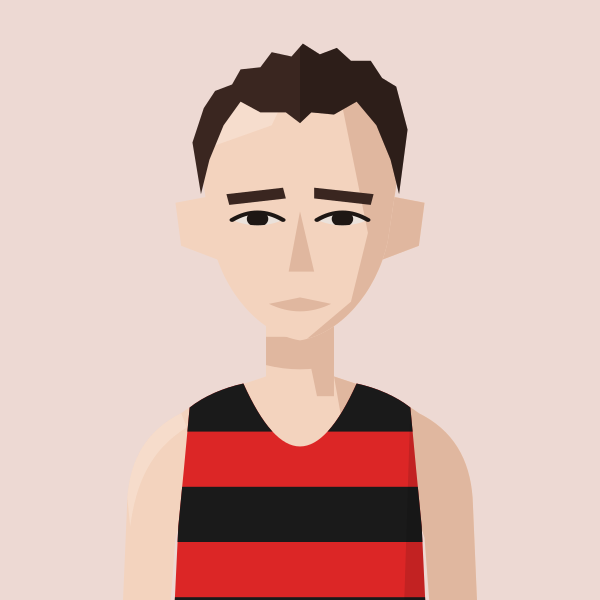
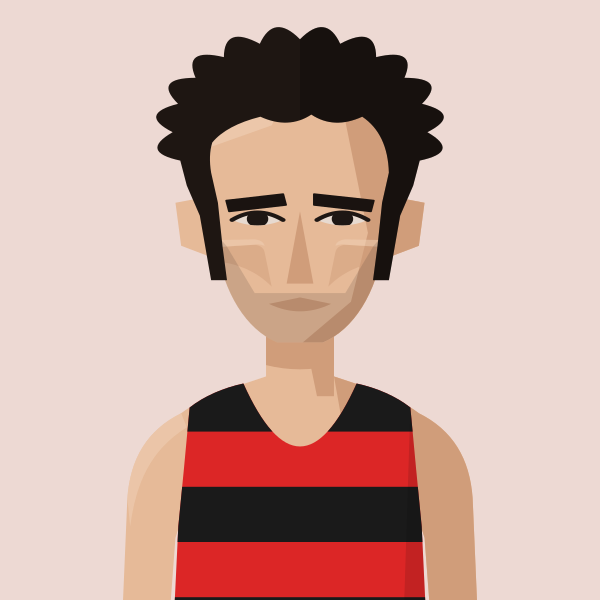
Jon Solly: redrawn with big black curls, sideburns, faint stubble
Claude-Session: https://claude.ai/code/session_01MgmDWhFqnSSnP4iBLKXUZC

Changed region(s): [[0.24, 0.03, 0.75, 0.75], [0.66, 0.69, 0.81, 1.0], [0.18, 0.69, 0.33, 1.0]]

diff --git a/files/index.html b/files/index.html
@@ -885,7 +885,7 @@ const portraitFile=(name,club)=>{const k=normalizeNameForCompare(name||'').repla
 const portraitClubOf=(name,clubs)=>{for(const c of clubs||[]){if(c&&portraitFile(name,c))return c;}return null;}; /* first of these clubs we have a portrait for */
 // Athlete header figure: superstar portrait if we have one, else a grey runner in the club vest, else the plain vest icon
 // Changes whenever any portrait changes (set by tools/build_og.py), so browsers fetch fresh images instead of old cached ones
-const PORTRAIT_V='1f01a294';const PORTRAIT_WOMEN='abbey-brooke,abbie-bulbulian,adele-prince,aimee-hargreaves,aisling-ahern,alex-brown,alex-gandee,alex-marginean,alex-miller,alexa-parker,alexandra-barbour,alice-braham,alice-bridger-morales,alice-crane,alice-martin,alice-reed,alice-smith,alison-purnell,alison-thomson,amelia-pettitt,amy-clements,andrea-barber,anika-schwarze-chintapatla,anna-garnier,anna-garnier-hw,anna-sharp,annabel-hobday,annabelle-hadlow,anne-hegvold,annmarie-seymour,ava-mcandie,becky-briggs,bethan-goddard,bethanie-murray,bethany-brown,betsy-griffiths,billie-mcclosky,camilla-barden,caoimhe-nic-fhogartaigh,carolyne-baxter,catherine-bryson,catherine-eastham,catherine-kandie,cathy-ansell,charlotte-griffiths,chloe-beckett,chloe-tighe,chrissie-wellington,claire-grima,clara-pettit,clare-elms,clare-pauzers,dillan-quinn,dorchie-cockerell,eilidh-hide,elinor-skinner,eliza-grant,elizabeth-apsley,elizabeth-stavreski,ella-fennelly,ella-king-powrie,ella-may-hards,ella-newton,ellen-weir,ellie-brown,ellie-freeden,eloise-bull,emilie-arnoux,emily-barrett,emily-bradley,emily-lowery,emily-robbins,emma-bond,emma-gordon,emma-howsham,emma-lord,emma-rowland,estle-viljoen,evie-warren,felicity-cole,felicity-harrison,felicity-hayward,fi-maddocks,fiona-de-mauny,florence-wiggins,gabby-collison,gabriel-reynolds,gemma-newport,genevieve-blanch,georgia-curry,georgie-bruinvels,georgie-fenn,georgie-furze,georgie-grgec,gina-galbraith,grace-leyland,grace-richardson,hannah-edwards,hannah-english,heather-statham,heather-statham-cc,helena-corbin,helena-keenan,holly-nixon,holly-pan,imogen-mackie,imogen-wolsey,iona-cousland,isabel-bradley,isabel-brinsden,isabel-hodder,isabelle-pickett,jennifer-nandi,jennifer-smith,jess-reed,jess-saunders,jess-winfield,jessica-davies,jessica-lowe,jodie-favell,jon-hobbs,josephine-rhodes,julia-bleasdale,julia-wedmore,juliet-hodder,jurgita-levertaviciute,justine-lynch,karen-fenner,karen-xiang,karina-box,kate-axford,kate-williams,kathy-sharpe,katie-ellen-french,katie-good,katie-snowden,katy-hedgethorne,kitty-shepherd-cross,kristina-popadich,lara-bromilow,lara-mangan,laura-goodson,laura-miles,lauren-major,lea-adamson,lily-newton,lisa-bailey,lisa-thomas,lisa-thomas-hw,lizzie-goldie-scot,louise-cooper,lucy-jones,lucy-macalister,lucy-peters,lydia-blackmore,lydia-gallyer-barnett,maddie-mastrolonardo,maddy-whitman,maeve-kenny,margaret-coogan,martina-conner,mary-james,mary-setyabule,matilde-lomba,megan-gildea,mel-wilkins,mhairi-hall,mimi-corden-lloyd,molly-oconnor,molly-smith,monika-gajek,naomi-lenane,natalie-beadle,natalie-seymour,natasha-lodge,niamh-thompson,nicky-hayes,nicola-cartlidge,nicola-douglas,nikki-haines,nikki-sturzaker,olivia-papaioannou,olivia-stillman,orna-mcginley,pamela-mchutchon,patricia-walker,patrizia-gnoato,penny-oliver,rachel-brown,rebecca-barrow,rebekah-edgar,ruby-carter,ruby-whyte-wilding,ruby-woolfe,sally-urquhart,sally-young,sally-young-slh,sam-whiting,samantha-munday,sarah-astin,sarah-dewhirst,sarah-grover,sarah-hanley,sarah-holt,sarah-murphy,sarah-palmer,sarah-palmer-ran,sarah-riceman,sarah-young,saron-haileselase,serena-carter,sophie-cowper,sophie-harris,sophie-hicks,sophie-tooley,stacey-ward,steph-hewitt,steph-mccall,steph-mccall-cc,steph-mccall-slh,steph-mitchell,suzanne-swaine,suze-spalding,suzie-harvey,suzy-whatmough,teresa-murphy,tilly-heaton,tilly-heaton-bel,tish-jones,vic-cartwright,vicky-clarke,victoria-barthelmess,victoria-buck,vikki-filsell,zoe-doyle,zoe-macdonald,zuzana-nemeckova';const PORTRAIT_MEN='aaron-wilson,abdulla-elsadig,adam-leane,adrian-major,adrien-royer,alan-black,alan-mead,alex-brecker,alex-bruce-littlewood,alex-gutteridge,alex-harris,alex-howard,alex-janiaud,alex-lee,alex-lennon,alex-mills,alex-milne,alex-morales,alex-robinson,alex-yee,alexander-marks,amittai-ben-israel,andrew-cumine,andrew-green,andrew-penney,andrew-perfect,andrew-simms,andrew-warburton,andrius-jaksevicius,andy-coley-maud,andy-coley-maud-cc,andy-fyfe,andy-north,andy-paton,andy-weir,angus-butler,angus-lamb,anisse-ismaili,arlo-ludewick,arne-dumez,arthur-peel,ashley-goncalves,barnaby-day,barry-collins,barry-sawyer,ben-clarke,ben-coughlan,ben-harding,ben-hurley,ben-ireland,ben-millar,ben-paviour,ben-pearce,ben-racle,ben-revill,ben-reynolds,ben-scott,ben-toomer,benedict-whitby,benjamin-hilson,bernie-ford,bill-kerr,bill-weller,bill-weller-wal,bob-harrison,bob-holt,bob-lunnon,bob-rayman,bob-smith,bradley-courtney-pinn,brandon-dewar,brian-gorman,brian-wilder,caleb-hathaway,callum-stewart,cameron-dockerill,cameron-reilly,carl-delaney,charles-herrington,charlie-dabbs,charlie-dickinson,charlie-eastaugh,charlie-manning,charlie-pickett,charlie-rogers,charlie-sandison,charlie-walker,charlie-wyllie,che-compton,chris-busaileh,chris-busaileh-hhh,chris-greenwood,chris-keavey,chris-moss,chris-steer,chris-threadgold,chris-warren,christian-lee,christopher-parker,clive-gilby,clive-shippen,colin-high,colin-pearson,conall-mcnally,conall-whelan,craig-ruddy,dame-dibaba,dan-cliffe,dan-pettitt,daniel-shaw,daniel-wolff,darren-mead,dave-beard,dave-beaver,dave-clarke,dave-glassborow,dave-holt,dave-taylor,david-anderson,david-bowers,david-grima,david-north,david-ogden,david-symons,david-walsh,david-williams,deron-fagan,dick-piotrowski,dimos-evangelidis,dom-nolan,dominic-kiralyfi,don-anderson,don-faircloth,don-maclean,doug-maughan,duncan-rimmer,dylan-evans,dylan-mitchard,ed-brewer,ed-catmur,ed-gibson,ed-mallett,ed-prickett,eddie-herridge,eddie-jodrell,eddie-rolls,edward-chuck,eoin-brady,eoin-molloy,ethan-mccolgan,falilou-kebe,findlay-dyer,finn-johnson,fintan-pearce,frank-tickner,frank-ward,fred-paget,fred-slemeck,freddie-hessian,garret-lee,gary-ribbons,gary-ribbons-ee,gary-staines,gary-staines-bel,gavin-eccles,geoff-biscoe,geoff-jerwood,geoff-north,george-cotton,george-gathercole,george-jackson,george-loxton,george-mallett,george-ogden,gerry-adams,gerry-north,glen-keegan,gordon-pearce,graham-macky,grenville-tuck,harrison-hayman,harry-guttridge,hector-revill,henry-hart,henry-silverstein,hugo-hewitt,huw-lobb,ian-acreman,ian-crowe-wright,ian-ellwood,ian-harkness,indy-barnes,isaac-lutaya,isaac-parker,jack-brotchie,jack-dickson,jack-dormer,jack-hampshire,jack-harrison,jack-hobden,jack-kavanagh,jack-millar,jack-ramm,jack-woods,jacob-brockmann,jake-simmonds,james-bartram,james-blackwood,james-bowler,james-estall,james-ewing,james-fox,james-hancock,james-harvey,james-hoad,james-kelly,james-mcmullan,james-murray,james-nutt,james-preston,james-roberts,james-stockings,james-ward,james-wootton,jamie-crowe,jamie-parkinson,jared-martin,jean-paul-wright,jeff-cunningham,jeremy-dempsey,jermaine-mays,jerry-watson,jim-allchin,jim-rimmer,joe-english,joe-hartley,john-baker,john-bicourt,john-bromley,john-davies,john-dear,john-foss,john-foxall,john-gilbert,john-gladwin,john-hutchins,john-kendall,john-kimaiyo,john-lee,john-lethbridge,john-mather,john-moore,john-roberts,john-sanderson,john-stow,john-sullivan,john-thresher,jon-pepper,jon-pepper-slh,jon-phillips,jon-solly,jonathan-cocker,jonathan-collier,jonathan-cornish,jonathan-ratcliffe,jonathan-tipper,jonny-neville,jonny-scott,jordan-weaver,josh-mitchell,josh-snow,josh-trigwell,jules-gevers,junior-galley,justin-chaston,justin-reid,kassa-tadesse,keith-newton,ken-penney,ken-penney-cro,kevin-nash,kevin-quinn,kevin-sturman,kieran-barnes,kieran-white,knut-hegvold,knut-hegvold-bel,larry-ryan,lawrence-avery,lee-lintern,les-presland,les-presland-sur,lewis-lloyd,liam-burthem,lionel-mann,lloyd-kempson,luke-caldwell,mack-downie,malachi-byansi,marcello-bizio,marcelo-fortes,marco-mazzotta,mark-anderson,mark-miles,mark-sinclair,mark-tennyson,mark-waller,martin-dent,martin-duff,martin-lake,martin-lewington,martin-shore,mathew-speed,matt-chaston,matt-jones,matt-wood,matt-yates,matthew-edgar,matthew-houchell,matthew-thomas,matthew-varley,max-bloor,max-heyden,max-milarvie,max-nicholls,michael-baker,michael-mccarthy,mick-gowan,mick-woods,mike-beevor,mike-boyle,mike-cummings,mike-farmery,mike-fuller,mike-hayes,mike-kortenray,mike-nouch,mohammed-ismail,monty-hudson,morgan-roberts,nathan-visick,neil-chisholm,neil-phillips,neil-speaight,neil-wilson,nic-lukies,nick-acfield,nick-altmann,nick-bester,nick-bester-hhh,nick-buckle,nick-bundle,nick-goolab,nick-lightfoot,nick-morris,nick-torry,noah-fernandez,norman-stairs,oli-carrington,oliver-carrington,oliver-fox,oliver-reynolds,oliver-young,ollie-foote,ollie-garrod,olly-buck,owen-hind,paddy-roddy,pancho-panchev,paskar-owor,pat-newell,patrick-mcdougall,paul-calver,paul-cheetham,paul-evans,paul-freary,paul-magner,paul-pollock,paul-sanderson,paul-sanderson-wok,pete-carton,pete-gardner,peter-clarke,peter-giles,peter-giles-thh,peter-lighting,phil-carstairs,phil-sanders,phil-sesemann,phil-swinburn,phil-wicks,phil-woodford-smith,raj-paranandi,ralph-street,ranjit-bhatia,ray-foley,reece-edwards,rhys-boorman,rian-mccawley,richard-ashe,richard-giles,richard-henderson,richard-langley,richard-mcdowell,richard-ollington,richard-partridge,richard-sun,richard-ward,rob-armstrong,rob-kelly,rob-tuer,robert-elphick,robert-laing,robert-norville,robert-peacock,robert-sesemann,robin-boon,robin-hudson,roger-alsop,roger-alsop-bel,roger-hackney,ron-clark,ron-linstead,ronan-tanguy,rory-mcmahon,rory-orsborn,ross-braden,ross-christie,rowan-board,rowan-crichton,russell-dessaix-chin,ryan-hickey,ryan-mccallister,sam-bramwell,sam-charlton,sam-gebreselassie,sam-haughian,sam-peters,sam-sommerville,sam-tyas,samuel-dames,samuel-wilcock,sean-cordon,sebastian-anthony,simon-baines,simon-coombes,simon-coppard,simon-fairbrother,simon-holmes,simon-rayner,simon-rayner-hw,simon-wade,simon-wade-hhh,simon-waterhouse,simon-williams,simon-wurr,sonny-nicoll,spencer-barden,stephen-mcleod,stephen-sharp,steve-gardner,steve-jones,steve-smythe,steve-smythe-hhh,stuart-beaney,stuart-major,stuart-major-thh,stuart-mccallum,stuart-paton,terry-booth,thomas-dugre,thomas-gandee,thomas-gardner,thomas-renshaw,tim-alexander,tim-eglen,tim-lawrence,tim-watson,toby-cooke,toby-fletcher,tom-austin,tom-cheetham,tom-conlon,tom-davies,tom-gifford,tom-higgs,tom-jervis,tom-lole,tom-south,tom-thornley,tommy-taylor,tony-binda,tony-fairclough,tony-harran,trevor-hart,valdis-pauzers,valentin-rigori,vic-maughan,wayne-oxborough,will-cockerell,will-lewis,will-marshall,will-scott,will-stockley,william-gardner,yacin-yusuf,zach-nolan';
+const PORTRAIT_V='f8e9c436';const PORTRAIT_WOMEN='abbey-brooke,abbie-bulbulian,adele-prince,aimee-hargreaves,aisling-ahern,alex-brown,alex-gandee,alex-marginean,alex-miller,alexa-parker,alexandra-barbour,alice-braham,alice-bridger-morales,alice-crane,alice-martin,alice-reed,alice-smith,alison-purnell,alison-thomson,amelia-pettitt,amy-clements,andrea-barber,anika-schwarze-chintapatla,anna-garnier,anna-garnier-hw,anna-sharp,annabel-hobday,annabelle-hadlow,anne-hegvold,annmarie-seymour,ava-mcandie,becky-briggs,bethan-goddard,bethanie-murray,bethany-brown,betsy-griffiths,billie-mcclosky,camilla-barden,caoimhe-nic-fhogartaigh,carolyne-baxter,catherine-bryson,catherine-eastham,catherine-kandie,cathy-ansell,charlotte-griffiths,chloe-beckett,chloe-tighe,chrissie-wellington,claire-grima,clara-pettit,clare-elms,clare-pauzers,dillan-quinn,dorchie-cockerell,eilidh-hide,elinor-skinner,eliza-grant,elizabeth-apsley,elizabeth-stavreski,ella-fennelly,ella-king-powrie,ella-may-hards,ella-newton,ellen-weir,ellie-brown,ellie-freeden,eloise-bull,emilie-arnoux,emily-barrett,emily-bradley,emily-lowery,emily-robbins,emma-bond,emma-gordon,emma-howsham,emma-lord,emma-rowland,estle-viljoen,evie-warren,felicity-cole,felicity-harrison,felicity-hayward,fi-maddocks,fiona-de-mauny,florence-wiggins,gabby-collison,gabriel-reynolds,gemma-newport,genevieve-blanch,georgia-curry,georgie-bruinvels,georgie-fenn,georgie-furze,georgie-grgec,gina-galbraith,grace-leyland,grace-richardson,hannah-edwards,hannah-english,heather-statham,heather-statham-cc,helena-corbin,helena-keenan,holly-nixon,holly-pan,imogen-mackie,imogen-wolsey,iona-cousland,isabel-bradley,isabel-brinsden,isabel-hodder,isabelle-pickett,jennifer-nandi,jennifer-smith,jess-reed,jess-saunders,jess-winfield,jessica-davies,jessica-lowe,jodie-favell,jon-hobbs,josephine-rhodes,julia-bleasdale,julia-wedmore,juliet-hodder,jurgita-levertaviciute,justine-lynch,karen-fenner,karen-xiang,karina-box,kate-axford,kate-williams,kathy-sharpe,katie-ellen-french,katie-good,katie-snowden,katy-hedgethorne,kitty-shepherd-cross,kristina-popadich,lara-bromilow,lara-mangan,laura-goodson,laura-miles,lauren-major,lea-adamson,lily-newton,lisa-bailey,lisa-thomas,lisa-thomas-hw,lizzie-goldie-scot,louise-cooper,lucy-jones,lucy-macalister,lucy-peters,lydia-blackmore,lydia-gallyer-barnett,maddie-mastrolonardo,maddy-whitman,maeve-kenny,margaret-coogan,martina-conner,mary-james,mary-setyabule,matilde-lomba,megan-gildea,mel-wilkins,mhairi-hall,mimi-corden-lloyd,molly-oconnor,molly-smith,monika-gajek,naomi-lenane,natalie-beadle,natalie-seymour,natasha-lodge,niamh-thompson,nicky-hayes,nicola-cartlidge,nicola-douglas,nikki-haines,nikki-sturzaker,olivia-papaioannou,olivia-stillman,orna-mcginley,pamela-mchutchon,patricia-walker,patrizia-gnoato,penny-oliver,rachel-brown,rebecca-barrow,rebekah-edgar,ruby-carter,ruby-whyte-wilding,ruby-woolfe,sally-urquhart,sally-young,sally-young-slh,sam-whiting,samantha-munday,sarah-astin,sarah-dewhirst,sarah-grover,sarah-hanley,sarah-holt,sarah-murphy,sarah-palmer,sarah-palmer-ran,sarah-riceman,sarah-young,saron-haileselase,serena-carter,sophie-cowper,sophie-harris,sophie-hicks,sophie-tooley,stacey-ward,steph-hewitt,steph-mccall,steph-mccall-cc,steph-mccall-slh,steph-mitchell,suzanne-swaine,suze-spalding,suzie-harvey,suzy-whatmough,teresa-murphy,tilly-heaton,tilly-heaton-bel,tish-jones,vic-cartwright,vicky-clarke,victoria-barthelmess,victoria-buck,vikki-filsell,zoe-doyle,zoe-macdonald,zuzana-nemeckova';const PORTRAIT_MEN='aaron-wilson,abdulla-elsadig,adam-leane,adrian-major,adrien-royer,alan-black,alan-mead,alex-brecker,alex-bruce-littlewood,alex-gutteridge,alex-harris,alex-howard,alex-janiaud,alex-lee,alex-lennon,alex-mills,alex-milne,alex-morales,alex-robinson,alex-yee,alexander-marks,amittai-ben-israel,andrew-cumine,andrew-green,andrew-penney,andrew-perfect,andrew-simms,andrew-warburton,andrius-jaksevicius,andy-coley-maud,andy-coley-maud-cc,andy-fyfe,andy-north,andy-paton,andy-weir,angus-butler,angus-lamb,anisse-ismaili,arlo-ludewick,arne-dumez,arthur-peel,ashley-goncalves,barnaby-day,barry-collins,barry-sawyer,ben-clarke,ben-coughlan,ben-harding,ben-hurley,ben-ireland,ben-millar,ben-paviour,ben-pearce,ben-racle,ben-revill,ben-reynolds,ben-scott,ben-toomer,benedict-whitby,benjamin-hilson,bernie-ford,bill-kerr,bill-weller,bill-weller-wal,bob-harrison,bob-holt,bob-lunnon,bob-rayman,bob-smith,bradley-courtney-pinn,brandon-dewar,brian-gorman,brian-wilder,caleb-hathaway,callum-stewart,cameron-dockerill,cameron-reilly,carl-delaney,charles-herrington,charlie-dabbs,charlie-dickinson,charlie-eastaugh,charlie-manning,charlie-pickett,charlie-rogers,charlie-sandison,charlie-walker,charlie-wyllie,che-compton,chris-busaileh,chris-busaileh-hhh,chris-greenwood,chris-keavey,chris-moss,chris-steer,chris-threadgold,chris-warren,christian-lee,christopher-parker,clive-gilby,clive-shippen,colin-high,colin-pearson,conall-mcnally,conall-whelan,craig-ruddy,dame-dibaba,dan-cliffe,dan-pettitt,daniel-shaw,daniel-wolff,darren-mead,dave-beard,dave-beaver,dave-clarke,dave-glassborow,dave-holt,dave-taylor,david-anderson,david-bowers,david-grima,david-north,david-ogden,david-symons,david-walsh,david-williams,deron-fagan,dick-piotrowski,dimos-evangelidis,dom-nolan,dominic-kiralyfi,don-anderson,don-faircloth,don-maclean,doug-maughan,duncan-rimmer,dylan-evans,dylan-mitchard,ed-brewer,ed-catmur,ed-gibson,ed-mallett,ed-prickett,eddie-herridge,eddie-jodrell,eddie-rolls,edward-chuck,eoin-brady,eoin-molloy,ethan-mccolgan,falilou-kebe,findlay-dyer,finn-johnson,fintan-pearce,frank-tickner,frank-ward,fred-paget,fred-slemeck,freddie-hessian,garret-lee,gary-ribbons,gary-ribbons-ee,gary-staines,gary-staines-bel,gavin-eccles,geoff-biscoe,geoff-jerwood,geoff-north,george-cotton,george-gathercole,george-jackson,george-loxton,george-mallett,george-ogden,gerry-adams,gerry-north,glen-keegan,gordon-pearce,graham-macky,grenville-tuck,harrison-hayman,harry-guttridge,hector-revill,henry-hart,henry-silverstein,hugo-hewitt,huw-lobb,ian-acreman,ian-crowe-wright,ian-ellwood,ian-harkness,indy-barnes,isaac-lutaya,isaac-parker,jack-brotchie,jack-dickson,jack-dormer,jack-hampshire,jack-harrison,jack-hobden,jack-kavanagh,jack-millar,jack-ramm,jack-woods,jacob-brockmann,jake-simmonds,james-bartram,james-blackwood,james-bowler,james-estall,james-ewing,james-fox,james-hancock,james-harvey,james-hoad,james-kelly,james-mcmullan,james-murray,james-nutt,james-preston,james-roberts,james-stockings,james-ward,james-wootton,jamie-crowe,jamie-parkinson,jared-martin,jean-paul-wright,jeff-cunningham,jeremy-dempsey,jermaine-mays,jerry-watson,jim-allchin,jim-rimmer,joe-english,joe-hartley,john-baker,john-bicourt,john-bromley,john-davies,john-dear,john-foss,john-foxall,john-gilbert,john-gladwin,john-hutchins,john-kendall,john-kimaiyo,john-lee,john-lethbridge,john-mather,john-moore,john-roberts,john-sanderson,john-stow,john-sullivan,john-thresher,jon-pepper,jon-pepper-slh,jon-phillips,jon-solly,jonathan-cocker,jonathan-collier,jonathan-cornish,jonathan-ratcliffe,jonathan-tipper,jonny-neville,jonny-scott,jordan-weaver,josh-mitchell,josh-snow,josh-trigwell,jules-gevers,junior-galley,justin-chaston,justin-reid,kassa-tadesse,keith-newton,ken-penney,ken-penney-cro,kevin-nash,kevin-quinn,kevin-sturman,kieran-barnes,kieran-white,knut-hegvold,knut-hegvold-bel,larry-ryan,lawrence-avery,lee-lintern,les-presland,les-presland-sur,lewis-lloyd,liam-burthem,lionel-mann,lloyd-kempson,luke-caldwell,mack-downie,malachi-byansi,marcello-bizio,marcelo-fortes,marco-mazzotta,mark-anderson,mark-miles,mark-sinclair,mark-tennyson,mark-waller,martin-dent,martin-duff,martin-lake,martin-lewington,martin-shore,mathew-speed,matt-chaston,matt-jones,matt-wood,matt-yates,matthew-edgar,matthew-houchell,matthew-thomas,matthew-varley,max-bloor,max-heyden,max-milarvie,max-nicholls,michael-baker,michael-mccarthy,mick-gowan,mick-woods,mike-beevor,mike-boyle,mike-cummings,mike-farmery,mike-fuller,mike-hayes,mike-kortenray,mike-nouch,mohammed-ismail,monty-hudson,morgan-roberts,nathan-visick,neil-chisholm,neil-phillips,neil-speaight,neil-wilson,nic-lukies,nick-acfield,nick-altmann,nick-bester,nick-bester-hhh,nick-buckle,nick-bundle,nick-goolab,nick-lightfoot,nick-morris,nick-torry,noah-fernandez,norman-stairs,oli-carrington,oliver-carrington,oliver-fox,oliver-reynolds,oliver-young,ollie-foote,ollie-garrod,olly-buck,owen-hind,paddy-roddy,pancho-panchev,paskar-owor,pat-newell,patrick-mcdougall,paul-calver,paul-cheetham,paul-evans,paul-freary,paul-magner,paul-pollock,paul-sanderson,paul-sanderson-wok,pete-carton,pete-gardner,peter-clarke,peter-giles,peter-giles-thh,peter-lighting,phil-carstairs,phil-sanders,phil-sesemann,phil-swinburn,phil-wicks,phil-woodford-smith,raj-paranandi,ralph-street,ranjit-bhatia,ray-foley,reece-edwards,rhys-boorman,rian-mccawley,richard-ashe,richard-giles,richard-henderson,richard-langley,richard-mcdowell,richard-ollington,richard-partridge,richard-sun,richard-ward,rob-armstrong,rob-kelly,rob-tuer,robert-elphick,robert-laing,robert-norville,robert-peacock,robert-sesemann,robin-boon,robin-hudson,roger-alsop,roger-alsop-bel,roger-hackney,ron-clark,ron-linstead,ronan-tanguy,rory-mcmahon,rory-orsborn,ross-braden,ross-christie,rowan-board,rowan-crichton,russell-dessaix-chin,ryan-hickey,ryan-mccallister,sam-bramwell,sam-charlton,sam-gebreselassie,sam-haughian,sam-peters,sam-sommerville,sam-tyas,samuel-dames,samuel-wilcock,sean-cordon,sebastian-anthony,simon-baines,simon-coombes,simon-coppard,simon-fairbrother,simon-holmes,simon-rayner,simon-rayner-hw,simon-wade,simon-wade-hhh,simon-waterhouse,simon-williams,simon-wurr,sonny-nicoll,spencer-barden,stephen-mcleod,stephen-sharp,steve-gardner,steve-jones,steve-smythe,steve-smythe-hhh,stuart-beaney,stuart-major,stuart-major-thh,stuart-mccallum,stuart-paton,terry-booth,thomas-dugre,thomas-gandee,thomas-gardner,thomas-renshaw,tim-alexander,tim-eglen,tim-lawrence,tim-watson,toby-cooke,toby-fletcher,tom-austin,tom-cheetham,tom-conlon,tom-davies,tom-gifford,tom-higgs,tom-jervis,tom-lole,tom-south,tom-thornley,tommy-taylor,tony-binda,tony-fairclough,tony-harran,trevor-hart,valdis-pauzers,valentin-rigori,vic-maughan,wayne-oxborough,will-cockerell,will-lewis,will-marshall,will-scott,will-stockley,william-gardner,yacin-yusuf,zach-nolan';
 // Runners whose dog pops up on their own profile page (a -dog.svg version of their portrait)
 const PROFILE_DOGS=new Set(['john-sanderson','penny-oliver','james-hancock','angus-butler']);
 const AthletePortrait=({name,club,w,fill,onClick,blink})=>{const[failed,setFailed]=useState(false);const file=portraitFile(name,club);const src0=file?`/portraits/athletes/${file}.svg?v=${PORTRAIT_V}`:PORTRAIT_CLUBS.has(club)?`/portraits/clubs/${club.replace(/\//g,'').replace(/&/g,'and')}.svg?v=${PORTRAIT_V}`:null;const blinkSrc=useBlinkSrc(file?(PROFILE_DOGS.has(file)?`/portraits/athletes/${file}-dog.svg?v=${PORTRAIT_V}`:src0):null,!!blink);const src=blinkSrc||src0;if(!src||failed)return<div onClick={onClick} className={onClick?'cursor-pointer':''}><ClubShield club={club} size={w}/></div>;const h=Math.round(w*148/126),ih=Math.round(w*1.4);if(fill)return<div onClick={onClick} className="cursor-pointer" style={{alignSelf:'stretch',minHeight:h,aspectRatio:'126 / 148',flexShrink:0,position:'relative',borderRadius:4,overflow:'hidden'}}><img src={src} alt={file?`Portrait of ${name.replace(/\s*\([^)]*\)$/,'')}`:`Runner in ${CLUBS[club]?.name||club} vest`} style={{position:'absolute',top:0,left:0,display:'block',width:'100%',height:'auto'}} onError={()=>setFailed(true)}/></div>;return<div style={{width:w,height:h,borderRadius:4,overflow:'hidden',flexShrink:0}}><img src={src} alt={file?`Portrait of ${name.replace(/\s*\([^)]*\)$/,'')}`:`Runner in ${CLUBS[club]?.name||club} vest`} width={w} height={ih} style={{display:'block',width:w,height:ih}} onError={()=>setFailed(true)}/></div>;};

diff --git a/tools/gen_portraits.py b/tools/gen_portraits.py
@@ -2081,4 +2081,12 @@ save("les-presland-sur", _presland("SUR"))
 # Mick Gowan (HHH 1962-70), Oct 2026, from the same photo (hair colour inferred): short darker-fair quiff, long face
 save("mick-gowan", nose(brows(eyes(figure("HHH", skin=1, hair="quiff", hair_colour="#9A7C52", brow_colour="#7A5E3E", jaw="long"), None, 0), 0, 0, 3), 1.0, 1.2))
 
+# ---- Big curls with the temple hair carried down as sideburns past the earlobes, hugging the face (Oct 2026, first used for Jon Solly) ----
+HAIR["curlsburns"] = (HAIR["bigcurls"].replace("M64,104 L57.7,84.4", "M68.6,140 L64.6,110 L60,96 L57.7,84.4").replace("Q66,82 66,88 Z", "Q67.6,82 68.6,90 L71,104 L72.6,124 L74.2,140 Z")
+    .replace("Q157.0,80.3 142.3,84.4 L136,104 L134,88 Q131,72", "Q157.0,80.3 142.3,84.4 L140,96 L135.4,110 L131.4,140 L125.8,140 L127.4,124 L129,104 L131.4,90 Q131,72"))
+# Jon Solly (HHH), redrawn Oct 2026 (replaces the earlier save): thick black curly hair with sideburns down past the earlobes, light olive skin,
+# heavy dark brows, long face, cheekbones, faint stubble
+_s = nose(thickbrows(brows(eyes(figure("HHH", skin=2, hair="curlsburns", hair_colour="#1E1612", brow_colour="#1A1310", facial="stubble", facial_colour="#2A2220", jaw="long"), None, 0), 0, 0, 3), .8), 1.05, 1.2)
+save("jon-solly", cheekbones(_s.replace('Z" opacity=".32"/>', 'Z" opacity=".14"/>', 1), skin=2, depth=.7))
+
 export_site()
